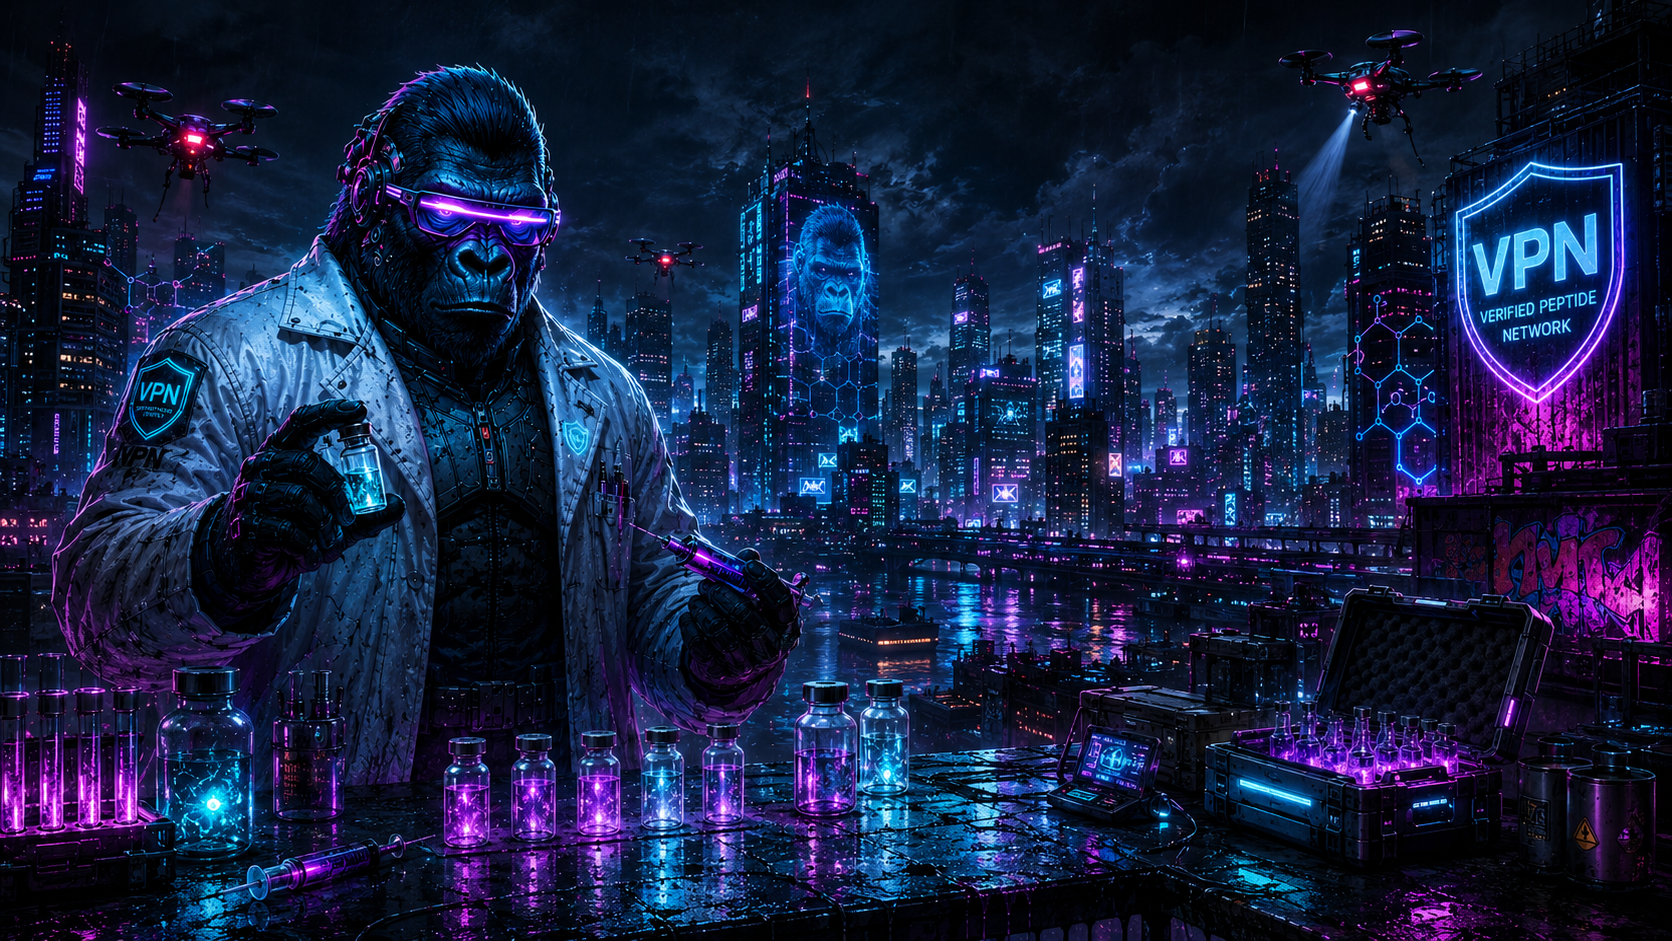
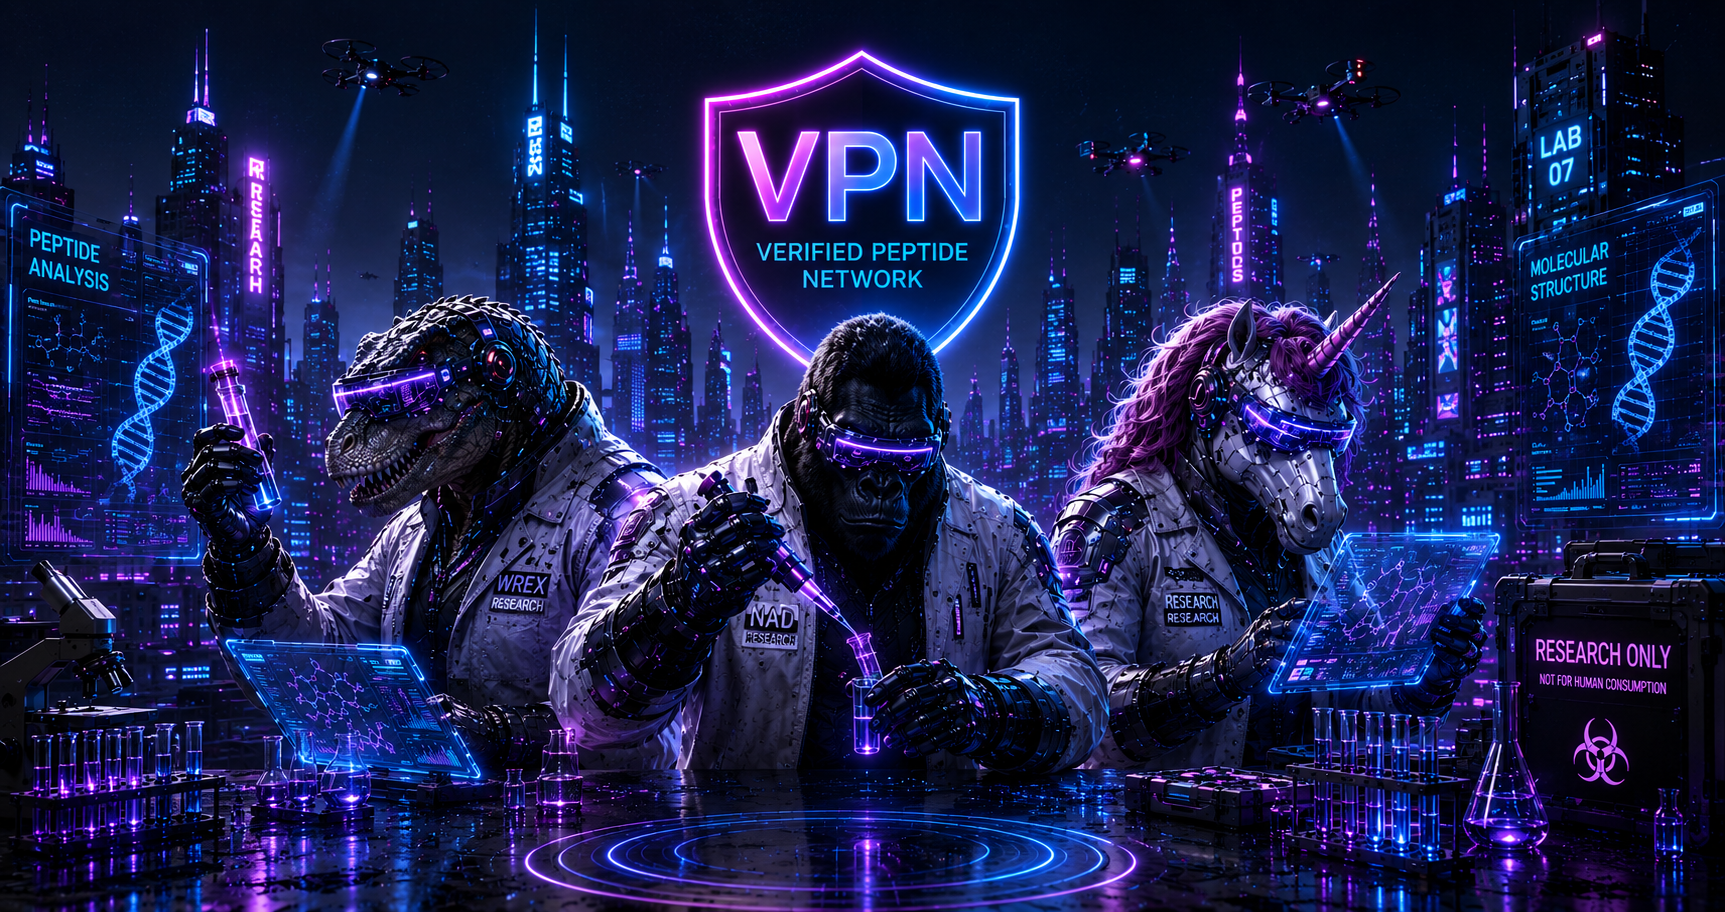
Use new wide cinematic wallpaper; optimize sizing for desktop/portrait/landscape

diff --git a/home.html b/home.html
@@ -79,9 +79,9 @@
     font-weight: 700;
     font-size: 13px;
     background-color: #04000f;
-    background-image: url('VPNNEWLOGO.png');
+    background-image: url('WALLPAPER.png');
     background-size: cover;
-    background-position: center top;
+    background-position: center 20%;
     background-repeat: no-repeat;
     background-attachment: fixed;
     min-width: 100vw;
@@ -101,18 +101,34 @@
       position: fixed;
       inset: 0;
       z-index: -2;
-      background-image: url('VPNNEWLOGO.png');
+      background-image: url('WALLPAPER.png');
       background-size: cover;
-      background-position: center top;
+      background-position: center 20%;
       background-repeat: no-repeat;
     }
   }
 
-  /* Portrait phone — zoom out so full logo is visible */
+  /* Landscape phone/iPad — wide image fits naturally */
+  @media (max-width: 1024px) and (orientation: landscape) {
+    body::before {
+      background-size: cover;
+      background-position: center 15%;
+    }
+  }
+
+  /* Portrait phone — zoom out so researchers are visible */
   @media (max-width: 600px) and (orientation: portrait) {
     body::before {
-      background-size: contain;
-      background-position: center center;
+      background-size: 280% auto;
+      background-position: center 25%;
+    }
+  }
+
+  /* Portrait tablet (iPad) */
+  @media (min-width: 601px) and (max-width: 1024px) and (orientation: portrait) {
+    body::before {
+      background-size: 200% auto;
+      background-position: center 20%;
     }
   }
 
